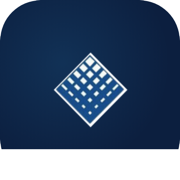
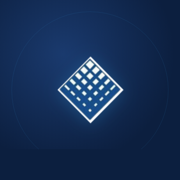
Production deploy: 2026-04-02 21:34

diff --git a/images/_pawsic-favicon-generator.html b/images/_pawsic-favicon-generator.html
@@ -4,43 +4,41 @@
 <meta charset="UTF-8">
 <style>
   * { margin: 0; padding: 0; box-sizing: border-box; }
-  body {
+  html, body {
     width: 512px;
     height: 512px;
     overflow: hidden;
-    background: transparent;
-    display: flex;
-    align-items: center;
-    justify-content: center;
+    background: #0C1F3F;
   }
-  .icon-bg {
+  .wrap {
     width: 512px;
     height: 512px;
-    background: #0C1F3F;
-    border-radius: 115px;
+    background: radial-gradient(circle at 35% 30%, #1a3a6e 0%, #0C1F3F 65%);
     display: flex;
     align-items: center;
     justify-content: center;
     position: relative;
   }
-  .icon-bg::before {
+  /* Subtle inner glow ring */
+  .wrap::before {
     content: '';
     position: absolute;
-    inset: 0;
-    border-radius: 115px;
-    background: radial-gradient(circle at 35% 35%, rgba(56,182,255,0.12) 0%, transparent 65%);
+    inset: 32px;
+    border-radius: 50%;
+    border: 1px solid rgba(56,182,255,0.15);
   }
   img {
-    width: 290px;
-    height: 290px;
+    width: 260px;
+    height: auto;
     object-fit: contain;
     position: relative;
-    z-index: 1;
+    z-index: 2;
+    filter: drop-shadow(0 4px 24px rgba(56,182,255,0.25));
   }
 </style>
 </head>
 <body>
-  <div class="icon-bg">
+  <div class="wrap">
     <img src="pawsic-diamond.png" alt="PAWSIC">
   </div>
 </body>
